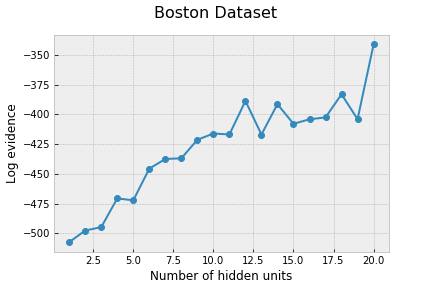
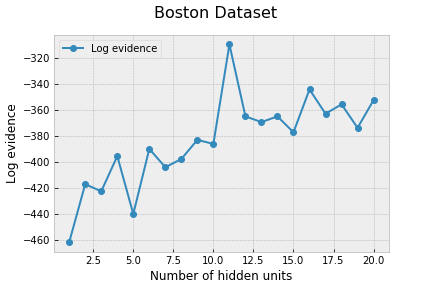
Added the results for the synthetic dataset.

diff --git a/source/main_polynomial.py b/source/main_polynomial.py
@@ -1,0 +1,164 @@
+import utilities as u
+import dynesty
+from datetime import datetime
+from scipy.stats import norm
+import matplotlib.pyplot as plt
+import random
+import numpy as np
+
+    
+def format_axis(ax):
+    ax.set_xlabel('$x$')
+    ax.set_ylabel('$y$')
+    ax.spines['top'].set_color('none')
+    ax.spines['right'].set_color('none')
+    ax.grid()
+    ax.legend()
+
+# the data, split between train and test sets
+# create synthetic data set
+np.random.seed(2)
+num_samples = 50
+x_train = np.linspace(-2,2,num_samples)
+x_test = np.linspace(-2,2,num_samples)+1/(2*num_samples)
+y_train = 2 + 5*x_train**2 + 10*x_train**3+ np.random.normal(0, 2, num_samples)
+y_test = 2 + 5*x_test**2 + 10*x_test**3+ np.random.normal(0, 2, num_samples)
+
+# plot data set
+fig, ax = plt.subplots()
+dot_size = 10
+ax.scatter(x_train, y_train, s=dot_size, label='train')
+ax.scatter(x_test,y_test, s=dot_size, alpha=0.5, label='test')
+format_axis(ax)
+fig.savefig('results/poly_dataset.png')
+
+def prior_ptform(uTheta):
+    theta = norm.ppf(uTheta, loc = 0, scale =30)    
+    return theta
+
+def prediction_function(x_train, W, degree):
+    y = 0
+    for i in range(degree+1):
+        y = y + W[i]*x_train**i
+    return y
+
+def error_function(y_pred, y_target):
+    return u.mean_squared_error(y_pred, y_target)
+    
+
+def log_likelihood(W, *logl_args):
+    y_pred = prediction_function(x_train, W, logl_args[0])
+    val = -error_function(y_pred, y_train)
+    return val
+
+
+#Store results
+results_list = [] # to store result of nested sampling
+x_axis = range(1,7,1) # Number of hidden units
+
+start = datetime.now()
+
+for i  in x_axis:
+    degree = i
+    ndim_1 =  degree+1
+    nlive = 100 * degree
+    logl_args = [degree]
+    
+    print(" ")
+    print("\n Degree of polynomial :::::", degree, ":::::::::::::::::::\n")
+    random.seed(1)
+    sampler = dynesty.NestedSampler(log_likelihood,
+                                   prior_ptform,
+                                   ndim = ndim_1,
+                                   nlive = nlive,
+                                   logl_args = logl_args,
+                                   nparam = ndim_1,
+                                   bound ='multi',
+                                   sample ='hslice'
+                                   #rstate = np.random.RandomState(1)
+                                   ) 
+    sampler.run_nested(maxiter =300)
+    res = sampler.results
+    results_list.append(res)
+
+end = datetime.now()
+
+print("\n Time :::", end - start)
+
+
+def return_results_regression_polynomial(x, y, results_list, x_axis):
+    
+    logZ =[]
+    for i in results_list:
+        logZ.append(i.logz[-1])
+
+    samples_list = []
+    weights_list = []
+    index_max_list = []
+    predictions_list_mode = []
+    
+    for i in results_list:
+        samples, weights = i.samples, np.exp(i.logwt - i.logz[-1])
+        samples_list.append(samples)
+        weights_list.append(weights)
+        index_max_list.append(np.argmax(weights))
+ 
+    for i  in x_axis: 
+        degree = i
+        samples = samples_list[i-1]
+        weights = weights_list[i-1]
+        W_mode = samples[index_max_list[i-1]]
+        predictions_list_mode.append(
+            prediction_function(x, W_mode,degree))
+    
+    mse_list_mode = []
+    for i  in x_axis:
+        y_pred_mode = predictions_list_mode[i-1]
+        mse_list_mode.append(error_function(y, y_pred_mode))
+        
+    return logZ, mse_list_mode
+
+'''Plots '''
+# train metrics
+x = x_train
+y = y_train
+logZ, mse_list_mode= return_results_regression_polynomial(x, y, results_list, x_axis)
+
+plt.style.use(['bmh'])
+fig, ax = plt.subplots(1)
+fig.suptitle('Sythetic Dataset', fontsize=16)
+ax.set_xlabel('Degree of polynomial')
+ax.set_ylabel('Log evidence')
+plt.plot(x_axis, logZ, '-o', label="Log evidence")
+#plt.plot(x_axis, logZ_LOWER, '-o', label="3 sd lower bound")
+#plt.plot(x_axis, logZ_UPPER, '-o', label="3 sd upper bound")
+plt.legend(loc=1)
+plt.show()
+fig.savefig('results/poly_log_evidence.png')
+
+plt.style.use(['bmh'])
+fig, ax = plt.subplots(1)
+fig.suptitle('Sythetic Dataset -Train', fontsize=16)
+ax.set_xlabel('Degree of polynomial')
+ax.set_ylabel('MSE')
+plt.plot(x_axis, mse_list_mode, '-o', label="MSE from mode weights")
+#plt.plot(x_axis, mse_list_mean, '-o', label="MSE from mean weights")
+plt.legend(loc=2)
+plt.show()
+fig.savefig('results/poly_mse_train.png')
+
+
+# test data set
+x = x_test
+y = y_test
+logZ, mse_list_mode = return_results_regression_polynomial(x, y, results_list, x_axis)
+plt.style.use(['bmh'])
+fig, ax = plt.subplots(1)
+fig.suptitle('Synthetic Dataset -Test', fontsize=16)
+ax.set_xlabel('Degree of polynomial')
+ax.set_ylabel('MSE')
+plt.plot(x_axis, mse_list_mode, '-o', label="MSE from mode weights")
+#plt.plot(x_axis, mse_list_mean, '-o', label="MSE from mean weights")
+plt.legend(loc=2)
+plt.show()
+fig.savefig('results/poly_mse_test.png')

diff --git a/source/utilities.py b/source/utilities.py
@@ -7,6 +7,7 @@ import tensorflow as tf
 from sklearn import datasets
 from sklearn.preprocessing import OneHotEncoder, StandardScaler
 from sklearn import metrics
+import dynesty
 
 def categorical_accuracy(y_true, y_pred):
     correct = 0
@@ -40,9 +41,9 @@ def mean_squared_error(predictions, targets):
     mse = metrics.mean_squared_error(predictions, targets)
     return mse
 
-def regression_neural_network(X, w_1, b_1, w_2):
+def regression_neural_network(X, w_1, b_1, w_2, b_2):
     hidden_layer = np.tanh((X @ w_1) + b_1.T)
-    y = hidden_layer @ w_2 # no bias required on this layer
+    y = hidden_layer @ w_2 + b_2.T# no bias required on this layer
     return y
 
 def multi_class_neural_network(X, w_1, b_1, w_2, b_2):
@@ -63,10 +64,13 @@ def regression_predictions(X, W, input_neurons, hidden_neurons, output_neurons):
     b_1 = W[param_1:param_1+ bias_1]
     
     param_2 = hidden_neurons * output_neurons
+    bias_2 = output_neurons
     w_2 = W[param_1 + bias_1:param_1 + bias_1 + param_2]
     w_2 = w_2.reshape((hidden_neurons, output_neurons))
+    b_2 = W[param_1 + bias_1 + param_2:param_1+ 
+            bias_1 + param_2 + bias_2]
 
-    predictions = regression_neural_network(X, w_1, b_1, w_2)
+    predictions = regression_neural_network(X, w_1, b_1, w_2,b_2)
     
     return predictions
 
@@ -111,13 +115,18 @@ def single_class_predictions(X, W, input_neurons, hidden_neurons, output_neurons
 def return_results_regression(x, y, results_list, x_axis,
                               input_neurons, output_neurons):
     logZ =[]
+    logZ_LOWER =[]
+    logZ_UPPER =[]
     for i in results_list:
         logZ.append(i.logz[-1])
+        logZ_LOWER.append(i.logz[-1]-3*i.logzerr[-1])
+        logZ_UPPER.append(i.logz[-1]+3*i.logzerr[-1])
 
     samples_list = []
     weights_list = []
     index_max_list = []
-    predictions_list = []
+    predictions_list_mode = []
+    predictions_list_mean = []
     
     for i in results_list:
         samples, weights = i.samples, np.exp(i.logwt - i.logz[-1])
@@ -129,17 +138,25 @@ def return_results_regression(x, y, results_list, x_axis,
         hidden_neurons = i
         samples = samples_list[i-1]
         weights = weights_list[i-1]
-        #W, cov = dynesty.utils.mean_and_cov(samples, weights)
-        W = samples[index_max_list[i-1]]
-        predictions_list.append(
-            regression_predictions(x, W, input_neurons,hidden_neurons, output_neurons))
+        W_mean, cov = dynesty.utils.mean_and_cov(samples, weights)
+        W_mode = samples[index_max_list[i-1]]
+        predictions_list_mode.append(
+            regression_predictions(x, W_mode, input_neurons,hidden_neurons, output_neurons))
+        predictions_list_mean.append(
+            regression_predictions(x, W_mean, input_neurons,hidden_neurons, output_neurons))
     
-    mse_list = []
+    mse_list_mode = []
+    mse_list_mean = []
     for i  in x_axis:
-        y_pred = predictions_list[i-1]
-        mse_list.append(metrics.mean_squared_error(y, y_pred))
+        y_pred_mode = predictions_list_mode[i-1]
+        y_pred_mean = predictions_list_mean[i-1]
+        mse_list_mode.append(metrics.mean_squared_error(y, y_pred_mode))
+        mse_list_mean.append(metrics.mean_squared_error(y, y_pred_mean))
         
-    return logZ, mse_list
+    return logZ,logZ_LOWER, logZ_UPPER, mse_list_mode, mse_list_mean
+
+
+
 
 
 
@@ -197,9 +214,9 @@ def single_class_return_results(x, y, results_list, x_axis,
         hidden_neurons = i
         samples = samples_list[i-1]
         weights = weights_list[i-1]
-        #W, cov = dynesty.utils.mean_and_cov(samples, weights)
-        W = samples[index_max_list[i-1]]
-        predictions_list.append(np.round(single_class_predictions(x, W, 
+        W_mean, cov = dynesty.utils.mean_and_cov(samples, weights)
+        W_mode = samples[index_max_list[i-1]]
+        predictions_list.append(np.round(single_class_predictions(x, W_mode, 
                                             input_neurons, hidden_neurons, output_neurons)))
     
     accuracy_list = []

diff --git a/source/main_boston.py b/source/main_boston.py
@@ -27,7 +27,7 @@ def log_likelihood(W, *logl_args):
 
 #Store results
 results_list = [] # to store result of nested sampling
-x_axis = range(1,21,1) # Number of hidden units
+x_axis = range(1,200,1) # Number of hidden units
 # Architecture for mlp
 input_neurons = x_train.shape[1] # inputs
 output_neurons = 1
@@ -35,13 +35,13 @@ output_neurons = 1
 start = datetime.now()
 for i  in x_axis:
     hidden_neurons = i
-    ndim_1 =  (input_neurons+1) * (hidden_neurons) + (hidden_neurons) * output_neurons
-    nlive = ndim_1 * 100
+    ndim_1 =  (input_neurons+1) * (hidden_neurons) + (hidden_neurons +1) * output_neurons
+    nlive = 100 * ndim_1
     logl_args = [input_neurons, hidden_neurons, output_neurons]
     
     print(" ")
     print("\n NUmber of hidden neurons :::::", hidden_neurons, ":::::::::::::::::::\n")
-    
+    random.seed(1)
     sampler = dynesty.NestedSampler(log_likelihood,
                                    prior_ptform,
                                    ndim = ndim_1,
@@ -51,7 +51,7 @@ for i  in x_axis:
                                    bound ='multi',
                                    sample ='hslice'
                                    ) 
-    sampler.run_nested(dlogz=200)
+    sampler.run_nested(maxiter = 10)
     res = sampler.results
     results_list.append(res)
 
@@ -63,7 +63,7 @@ print("\n Time :::", end - start)
 # train metrics
 x = x_train
 y = y_train
-logZ, accuracy_list = u.return_results_regression(x, y, results_list, 
+logZ,logZ_LOWER, logZ_UPPER, mse_list_mode, mse_list_mean = u.return_results_regression(x, y, results_list, 
                                         x_axis, input_neurons, output_neurons)
 
 plt.style.use(['bmh'])
@@ -71,7 +71,10 @@ fig, ax = plt.subplots(1)
 fig.suptitle('Boston Dataset', fontsize=16)
 ax.set_xlabel('Number of hidden units')
 ax.set_ylabel('Log evidence')
-plt.plot(x_axis, logZ, '-o')
+plt.plot(x_axis, logZ, '-o', label="Log evidence")
+#plt.plot(x_axis, logZ_LOWER, '-o', label="3 sd lower bound")
+#plt.plot(x_axis, logZ_UPPER, '-o', label="3 sd upper bound")
+plt.legend(loc=2)
 plt.show()
 fig.savefig('results/boston_log_evidence.png')
 
@@ -80,20 +83,23 @@ fig, ax = plt.subplots(1)
 fig.suptitle('Boston Dataset -Train', fontsize=16)
 ax.set_xlabel('Number of hidden units')
 ax.set_ylabel('MSE')
-plt.plot(x_axis, accuracy_list, '-o')
+plt.plot(x_axis, mse_list_mode, '-o', label="MSE from mode weights")
+#plt.plot(x_axis, mse_list_mean, '-o', label="MSE from mean weights")
+plt.legend(loc=3)
 plt.show()
 fig.savefig('results/boston_mse_train.png')
 # test data set
 x = x_test
 y = y_test
-logZ, accuracy_list = u.return_results_regression(x, y, results_list, 
+logZ,logZ_LOWER, logZ_UPPER, mse_list_mode, mse_list_mean = u.return_results_regression(x, y, results_list, 
                                         x_axis, input_neurons, output_neurons)
-
 plt.style.use(['bmh'])
 fig, ax = plt.subplots(1)
-fig.suptitle('Boston Dataset - Test', fontsize=16)
+fig.suptitle('Boston Dataset -Test', fontsize=16)
 ax.set_xlabel('Number of hidden units')
 ax.set_ylabel('MSE')
-plt.plot(x_axis, accuracy_list, '-o')
+plt.plot(x_axis, mse_list_mode, '-o', label="MSE from mode weights")
+#plt.plot(x_axis, mse_list_mean, '-o', label="MSE from mean weights")
+plt.legend(loc=3)
 plt.show()
-fig.savefig('results/boston_mse_test.png')
+fig.savefig('results/boston_mse_testpng')

diff --git a/source/main_iris.py b/source/main_iris.py
@@ -29,7 +29,7 @@ def log_likelihood(W, *logl_args):
 
 #Store results
 results_list = [] # to store result of nested sampling
-x_axis = range(1,51,1) # Number of hidden units
+x_axis = range(1,5,1) # Number of hidden units
 # Architecture for mlp
 input_neurons = x_train.shape[1] # inputs
 output_neurons = 3
